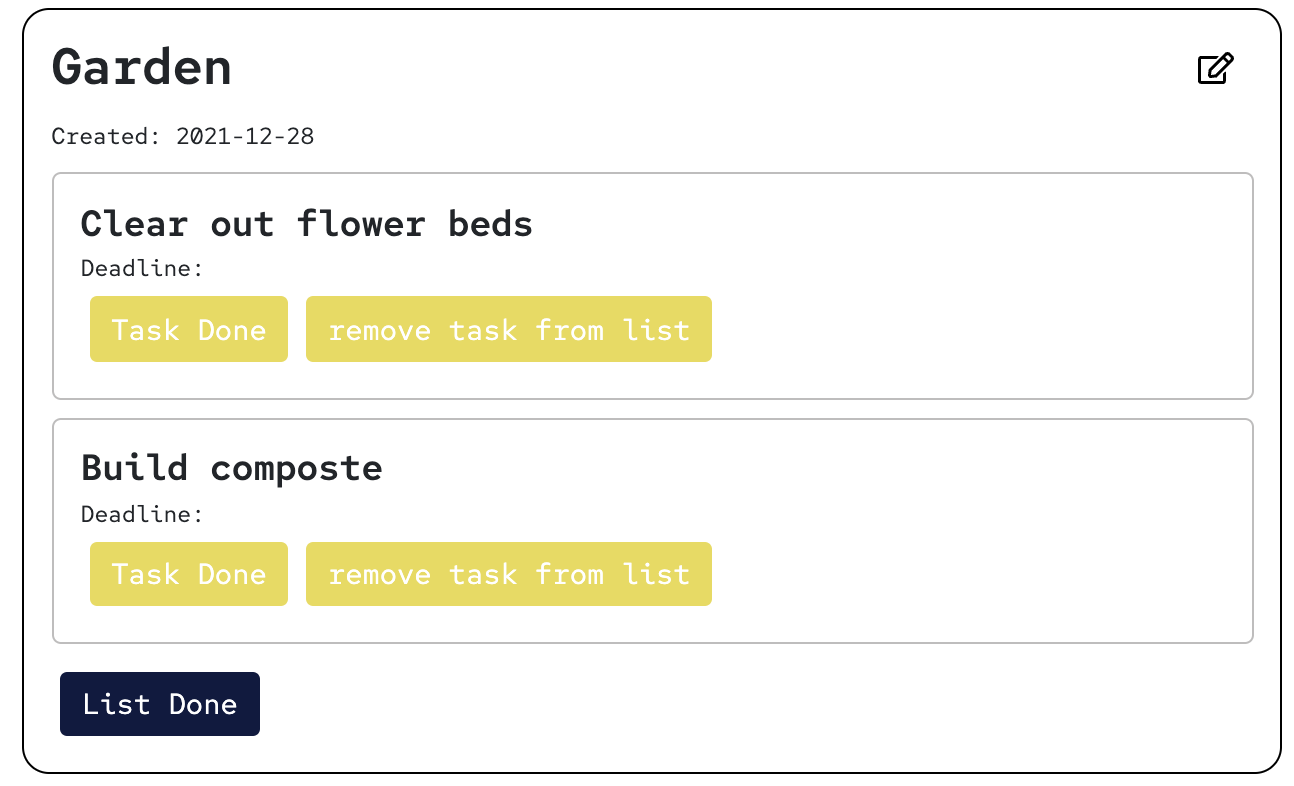
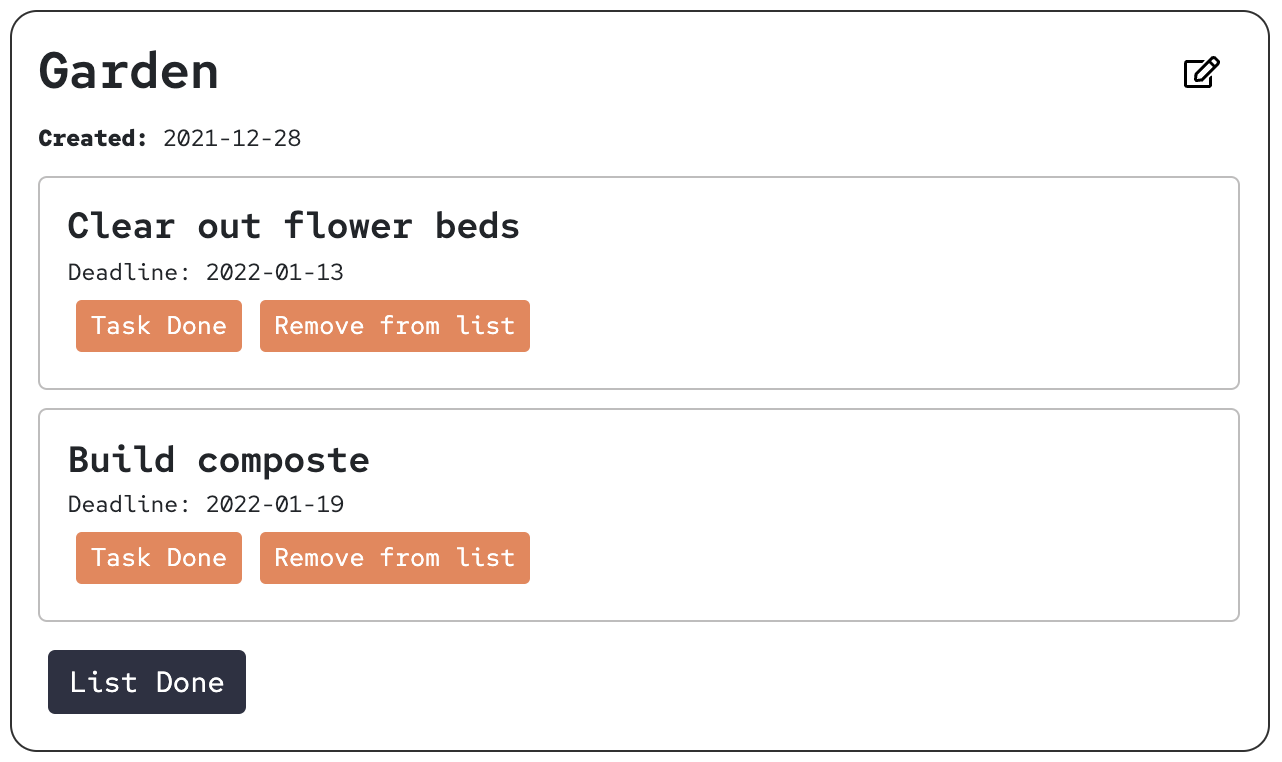
Styling on lohut-btn, udated images on startpage

diff --git a/assets/styles/nav.css b/assets/styles/nav.css
@@ -10,7 +10,7 @@
     padding-right: 3%;
 }
 .navbar-nav {
-    background-color: rgba(255, 255, 255, 0.85);
+    background-color: rgba(255, 255, 255, 0.9);
     padding-bottom: 20px;
 }
 .nav-link {
@@ -36,6 +36,15 @@ a {
 .navbar-toggler:focus {
     box-shadow: none;
 }
+.logout {
+    border: var(--border-grey) solid 2px;
+    border-radius: 5px;
+    margin-bottom: 15px;
+}
+.logout a {
+    margin-left: 10px;
+}
+
 @media screen and (min-width: 992px) {
     .collapse {
         justify-content: flex-end;
@@ -46,6 +55,16 @@ a {
     .nav-logo {
         height: 60px;
         margin-bottom: 20px;
+    }
+    .logout {
+        margin-right: 15px;
+        margin-bottom: 0px;
+    }
+    .logout:hover {
+        background-color: var(--border-grey);
+    }
+    .logout:hover a {
+        color: white !important;
     }
 }
 

diff --git a/assets/styles/tasks-lists.css b/assets/styles/tasks-lists.css
@@ -58,8 +58,8 @@ svg {
 /* Lists --------------------------------------- */
 
 .list-container {
-    border: rgb(49, 49, 49) 1px solid;
-    border-radius: 15px;
+    border: var(--border-grey) 1px solid;
+    border-radius: 5px;
     padding: 15px;
     max-width: 700px;
     margin-bottom: 10px;
@@ -85,7 +85,7 @@ svg {
     .task-container:hover path {
         fill: rgb(54, 54, 54);
     }
-    .task-container:hover .done-task-btn {
-        opacity: 1;
+    .list-container:hover path {
+        fill: rgb(54, 54, 54);
     }
 }

diff --git a/assets/styles/style.css b/assets/styles/style.css
@@ -4,15 +4,11 @@
     --light-green: #e6ebe0;
     --orange: #ef8354;
     --orange-ligth: #ec9f7e;
-
     --green: #5ca4a9;
     --green-light: #85c9ce;
-
     --blue: #2d3142;
     --blue-ligth: #586081;
-
-    --candy-pink: #dd7373;
-    --minion: #ead94c;
+    --border-grey: #bebdbd;
 }
 * {
     box-sizing: border-box;

diff --git a/views/navigation.php b/views/navigation.php
@@ -1,61 +1,3 @@
-    <!-- BOOTSTRAP -->
-    <nav class="navbar navbar-expand-md navbar-light hidden">
-        <div>
-            <img class="nav-logo" src="/assets/images/check-double-solid.svg" alt="">
-            <ul class="nav">
-                <li class="nav-item">
-                    <a class="nav-link" href="/index.php">Home</a>
-                </li>
-
-                <li class="nav-item">
-                    <a class="nav-link" href="/about.php">About</a>
-                </li>
-                <?php if (isUserLoggedIn() !== true) : ?>
-                    <li class="nav-item">
-                        <a class="nav-link" href="/login.php">Login </a>
-                    </li>
-                    <li class="nav-item">
-                        <a class="nav-link" href="/register.php">Register </a>
-                    </li>
-                <?php endif; ?>
-
-                <?php if (isUserLoggedIn()) : ?>
-                    <li class="nav-item">
-                        <a class="nav-link" href="/lists.php">Your lists</a>
-                    </li>
-                    <li class="nav-item">
-                        <a class="nav-link" href="/app/users/logout.php">Logout</a>
-                    </li>
-                    <li class="nav-item">
-                        <a class="nav-link" href="/profile.php">Profile</a>
-                    </li>
-                    <li class="nav-item">
-                        <!-- Hämtas bara om jag loggar ut och in efter att bilden laddats upp -->
-                        <img class="profile-img-nav" src="<?php echo $_SESSION['user']['image']; ?>" alt="">
-                    </li>
-                <?php endif; ?>
-
-            </ul>
-        </div>
-    </nav>
-
-    <nav class="navbar navbar-expand-lg navbar-light hidden">
-        <div class="container-fluid">
-            <a class="navbar-brand" href="#"> <img class="nav-logo" src="/assets/images/check-double-solid.svg" alt="">
-            </a>
-
-            <ul class="navbar-nav">
-                <li class="nav-item">
-                    <a class="nav-link" href="/index.php">Home</a>
-                </li>
-
-                <li class="nav-item">
-                    <a class="nav-link" href="/about.php">About</a>
-                </li>
-            </ul>
-        </div>
-    </nav>
-    <!-- KORREKTA -->
     <nav class="navbar navbar-expand-lg navbar-light">
         <div class="container-fluid ">
             <a class="navbar-brand" href="#"> <img class="nav-logo" src="/assets/images/task_logo.png" alt="">
@@ -87,13 +29,12 @@
                             <a class="nav-link" href="/lists.php">Your lists</a>
                         </li>
                         <li class="nav-item">
-                            <a class="nav-link" href="/app/users/logout.php">Logout</a>
-                        </li>
-                        <li class="nav-item">
                             <a class="nav-link" href="/profile.php">Profile</a>
                         </li>
+                        <li class="nav-item logout">
+                            <a class="nav-link " href="/app/users/logout.php">Logout</a>
+                        </li>
                         <li class="nav-item">
-                            <!-- Hämtas bara om jag loggar ut och in efter att bilden laddats upp -->
                             <img class="profile-img-nav" src="<?php echo $_SESSION['user']['image']; ?>" alt="">
                         </li>
                     <?php endif; ?>

diff --git a/lists.php b/lists.php
@@ -4,7 +4,7 @@
 
 <article class="list-page">
     <h1>Your lists</h1>
-    <p>Create your own list and ass tasks as you go along...</p>
+    <p>Create your own list and add tasks as you go along...</p>
 
     <section class="create-list-container">
 
@@ -24,7 +24,11 @@
                     <article class="list-container">
                         <div class="headline-container">
                             <h3 class="list-title"><?= htmlspecialchars($list['title']); ?></h3>
-                            <button class="edit-task-btn edit-list-btn"><img class="btn-check-icon btn-icon" src="/assets/images/edit-regular.svg" alt=""></button>
+                            <button class="edit-task-btn" aria-label="Edit list button">
+                                <svg aria-hidden="true" focusable="false" data-prefix="far" data-icon="edit" class="svg-inline--fa fa-edit fa-w-18" role="img" xmlns="http://www.w3.org/2000/svg" viewBox="0 0 576 512">
+                                    <path fill="currentColor" d="M402.3 344.9l32-32c5-5 13.7-1.5 13.7 5.7V464c0 26.5-21.5 48-48 48H48c-26.5 0-48-21.5-48-48V112c0-26.5 21.5-48 48-48h273.5c7.1 0 10.7 8.6 5.7 13.7l-32 32c-1.5 1.5-3.5 2.3-5.7 2.3H48v352h352V350.5c0-2.1.8-4.1 2.3-5.6zm156.6-201.8L296.3 405.7l-90.4 10c-26.2 2.9-48.5-19.2-45.6-45.6l10-90.4L432.9 17.1c22.9-22.9 59.9-22.9 82.7 0l43.2 43.2c22.9 22.9 22.9 60 .1 82.8zM460.1 174L402 115.9 216.2 301.8l-7.3 65.3 65.3-7.3L460.1 174zm64.8-79.7l-43.2-43.2c-4.1-4.1-10.8-4.1-14.8 0L436 82l58.1 58.1 30.9-30.9c4-4.2 4-10.8-.1-14.9z"></path>
+                                </svg>
+                            </button>
                         </div>
                         <span class="bold-info-text">Created: </span><span><?= $list['created_at']; ?></span>
 

diff --git a/index.php b/index.php
@@ -18,7 +18,7 @@
         <div class="container">
             <div class="row">
                 <div class="col-12 col-md-5 advantage-item">
-                    <h3>One big advantage</h3>
+                    <h3>Manage task all your tasks</h3>
                     <p>Organize everything in life whether there is a work-related task or a personal goal, Task Force is here to help you manage all your to-dos.</p>
                 </div>
                 <div class="col-12 col-md-6 advantage-item">
@@ -27,7 +27,7 @@
             </div>
             <div class="row second-row">
                 <div class="col-12 col-md-5 advantage-item">
-                    <h3>Next big advantage</h3>
+                    <h3>Get organized with lists</h3>
                     <p>Organize everything in life whether there is a work-related task or a personal goal, Task Force is here to help you manage all your to-dos.</p>
                 </div>
                 <div class="col-12 col-md-6 advantage-item">

diff --git a/app/users/image.php b/app/users/image.php
@@ -10,8 +10,6 @@ if (isset($_FILES['upload'])) {
     $upload = $_FILES['upload'];
     // Sets filename to "user_id - date - name"
     $upload['name'] = $_POST['hidden_upload'] . '-' . date('Y-m-d-') . $upload['name'];
-    // $destination = __DIR__ . '/uploads/' . $upload['name'];
-    //Test
     $destination = __DIR__ . '/../../uploads/' . $upload['name'];
 
 
@@ -35,8 +33,6 @@ if (isset($_FILES['upload'])) {
         move_uploaded_file($upload['tmp_name'], $destination);
 
         $id = $_SESSION['user']['id'];
-        // $path = '/app/users/uploads/' . $upload['name'];
-        //test
         $path = '/uploads/' . $upload['name'];
 
 

diff --git a/about.php b/about.php
@@ -2,8 +2,8 @@
 <?php require __DIR__ . '/views/header.php'; ?>
 
 <article class="about-page">
-    <h1>About</h1>
-    <p>This is the about page.</p>
+    <h1>About Task Force</h1>
+    <p>This is a school project.</p>
 </article>
 
 <?php require __DIR__ . '/views/footer.php'; ?>
